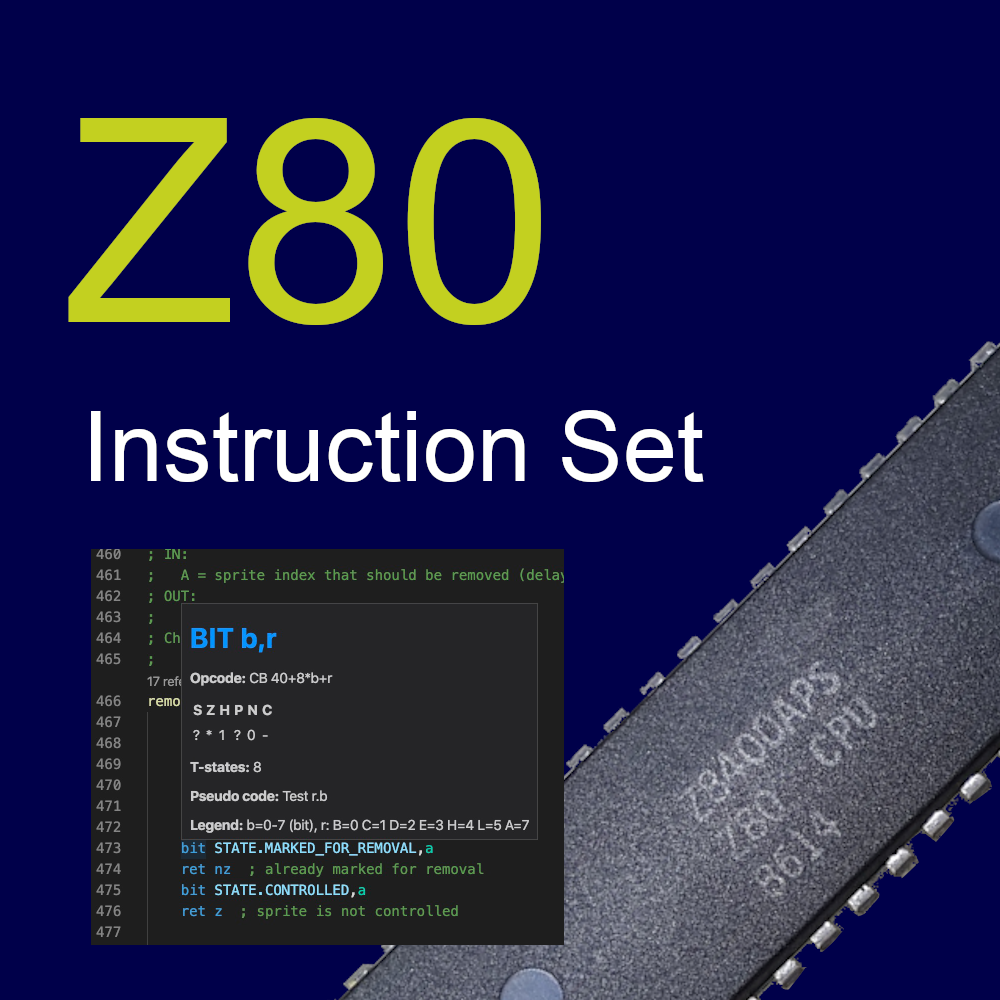
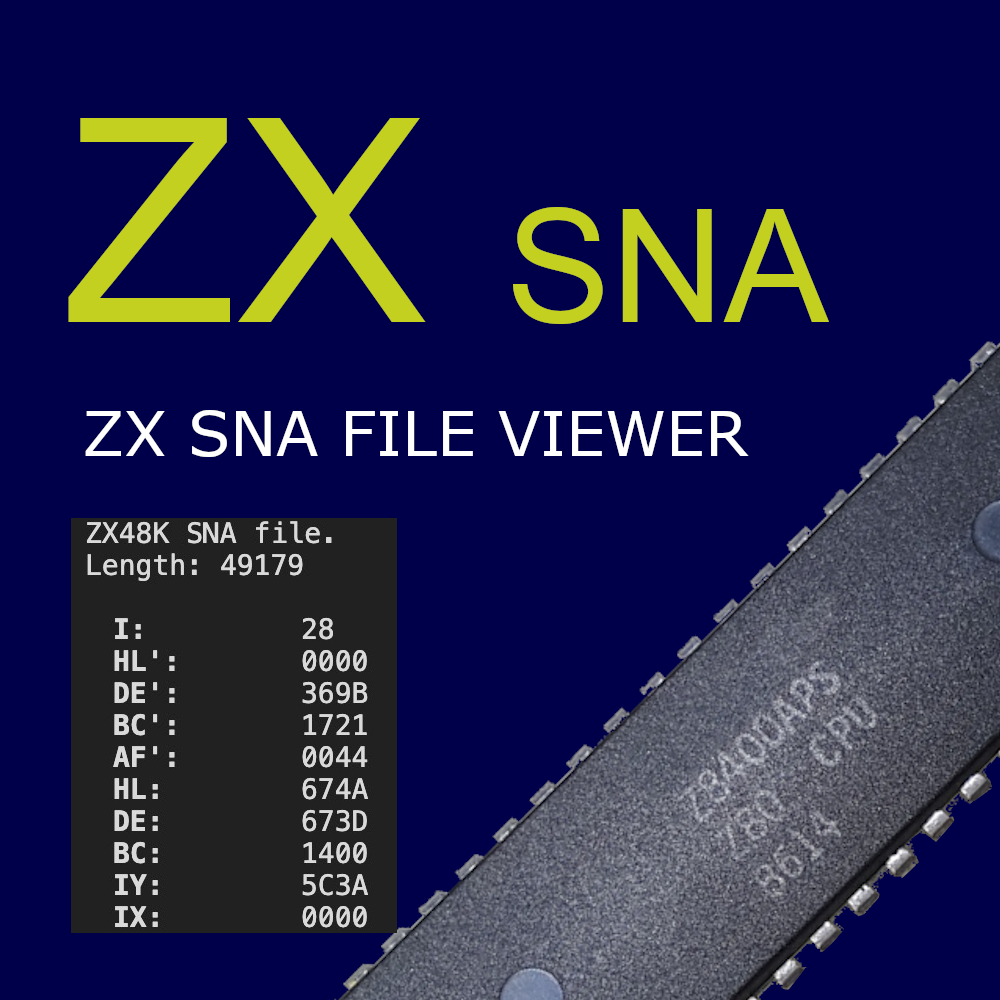
Updated readme etc.

Changed region(s): [[0.062, 0.403, 0.744, 0.961], [0.248, 0.093, 0.837, 0.341]]

diff --git a/src/snaeditorprovider.ts b/src/snaeditorprovider.ts
@@ -61,7 +61,7 @@ export class SnaEditorProvider implements vscode.CustomReadonlyEditorProvider {
 		mainHtml = mainHtml.replace('${vscodeResPath}', vscodeResPath);
 
 		// Add a Reload button for debugging
-		mainHtml = mainHtml.replace('<body>', '<body> <button onclick="parseRoot()">Reload</button>');
+		//mainHtml = mainHtml.replace('<body>', '<body> <button onclick="parseRoot()">Reload</button>');
 
 		return mainHtml;
 	}

diff --git a/README.md b/README.md
@@ -1,52 +1,37 @@
 # Support
 
-If you like "Z80 Instruction Set" please consider supporting it.
+If you like the "ZX SNA File Viewer" please consider supporting it.
 
 <a title="PayPal" href="https://www.paypal.com/cgi-bin/webscr?cmd=_s-xclick&hosted_button_id=8S4R8HPXVCXUL&source=url">
 	<img src="assets/btn_donate_SM.gif" />
 </a>
 
 
-# Z80 Instruction Set
+# ZX SNA File Viewer
 
-This is a hover provider for vscode.
-I.e. if you hover over a Z80 instruction (e.g. "LD A,5") the opcode and a description for the instruction is displayed.
 
-![](assets/hover.jpg)
-
-Note: It does also show the opcodes for the Z80N instructions (ZX Spectrum Next).
+This extension adds a readonly file viewer for ZX Spectrum SNA, snapshot files.
+It shows registers, a memory dump and the included ZX screen.
+It can read 48K and 128K SNA files.
 
 
 ## Installation
 
 Install through Visual Studio Code Marketplace.
-The extension is called "Z80 Instruction Set".
-
-<!--
-It supports the following assembler file extensions:
-.asm, .s, .inc, .a80.
--->
+The extension is called "ZX SNA File Viewer".
 
 
-# Configuration
+# Usage
 
-- "z80-instruction-set.enableHovering": Enable/disable the hovering. I.e. enable/disable the extension.
-- "z80-instruction-set.z80Link": Link to Z80 documentation. You can change this e.g. to point to some other html documentation. This simply adds a link to all instruction to make it easier to open external documentation if the hover information is not sufficient. Use an empty string "" to disable.
+Just click on a file with the *.sna extension.
+The file is opened and shown in the text editor area.
 
+![](assets/usage.gif)
 
-# Misc
+Alternatively you can open a SNA file via "Open With...":
 
-To view all instructions open the command palette (press F1) and enter "Show all Z80 instructions".
-A WebView opens with the instructions.
+![](assets/usage-open-with.gif)
 
-![](assets/Z80InstructionsView.jpg)
+When hovering over a value or register name you will get additional info like the offset or the value in decimal:
 
-
-# Hovers in Debug Mode
-
-vscode turns the normal hovers off if in debug mode. To make them visible press the "ALT" key while hovering.
-
-
-# Acknowledgememts
-
-Main parts of the code (the z80 instruction decoding) has been taken from [theNuestro](https://github.com/theNestruo)'s [z80-asm-code-meter](https://github.com/theNestruo/z80-asm-meter-vscode) which is licensed under LGPL-3.0.
+![](assets/hovering.gif)

diff --git a/CHANGELOG.md b/CHANGELOG.md
@@ -1,4 +1,10 @@
 # Changelog
 
+## 1.0.0
+- First released version.
+- Register view.
+- Memory dumps.
+- Screen image.
+
 ## 0.1.0
 - Initial version.
